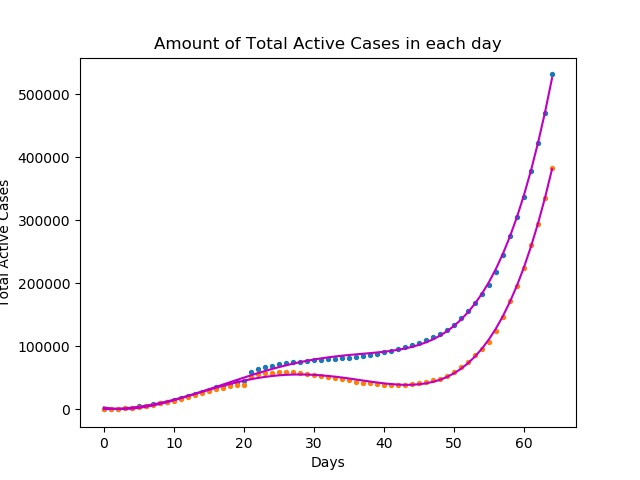
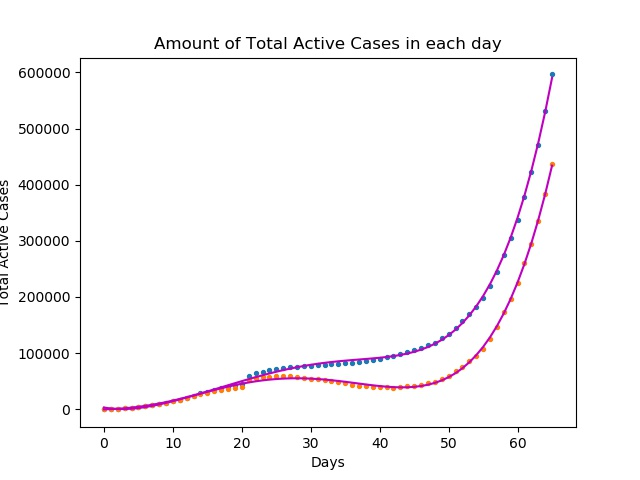
update : 28/03/2020

diff --git a/README.md b/README.md
@@ -12,22 +12,17 @@ COVID-19, the disease that can result from the coronavirus worldwide new pandemi
 
 
 
-Our predictions for 26/03/2020 : 
+Our predictions for 27/03/2020 : 
 
-The predictions for Total Cases today is:
-585682
+The predictions for Total Cases today is: 657402  
 
-The predictions for Total Active Cases today is:
-431739
+The predictions for Total Active Cases today is: 490167
 
-The predictions for Total Cured Cases today is:
-131516
+The predictions for Total Cured Cases today is: 142905
 
-The predictions for Total Deaths  today is:
-27113
+The predictions for Total Deaths  today is: 30679
 
-The predictions for Total Critical Cases  today is:
-22463
+The predictions for Total Critical Cases  today is: 28023
 
 
 
@@ -36,12 +31,10 @@ The predictions for Total Critical Cases  today is:
 
 
 
-
-
-
 |    Date    | Predicted Total Cases | Real Total Cases | Predicted Total Recovered | Real Total Recovered | Predicted  Total Deaths | Real Total Deaths | Predicted Active Cases | Real Total Cases | Predicted  Critical Cases | Real Critical Cases |
 | :--------: | :-------------------: | :--------------: | :-----------------------: | :------------------: | :---------------------: | :---------------: | :--------------------: | :--------------: | :-----------------------: | :-----------------: |
-| 27/03/2020 |        585682         |        ??        |          131516           |          ??          |          27113          |        ??         |         431739         |        ??        |           22463           |         ??          |
+| 28/03/2020 |        657402         |        ??        |          142905           |          ??          |          30679          |        ??         |         490167         |        ??        |           28023           |         ??          |
+| 27/03/2020 |        585682         |      596366      |          131516           |        133059        |          27113          |       27344       |         431739         |      435963      |           22463           |        23522        |
 | 26/03/2020 |        521552         |      531865      |          121254           |        123942        |          23992          |       24073       |         379021         |      383850      |           17778           |        19357        |
 | 25/03/2020 |        466883         |      471035      |          114684           |        114228        |          21202          |       21284       |         333371         |      335523      |           15664           |        14792        |
 | 24/03/2020 |        419859         |      422574      |          108171           |        108879        |          18646          |       18894       |         292093         |      294801      |           14062           |        13095        |
